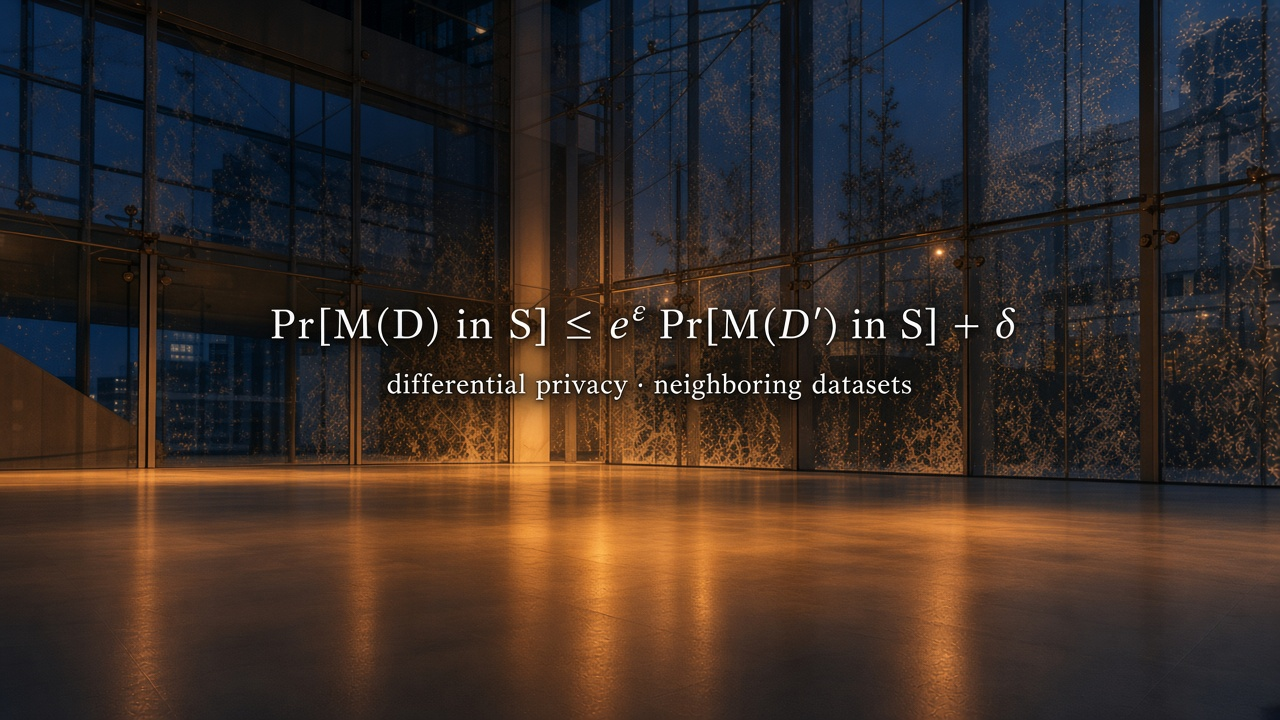
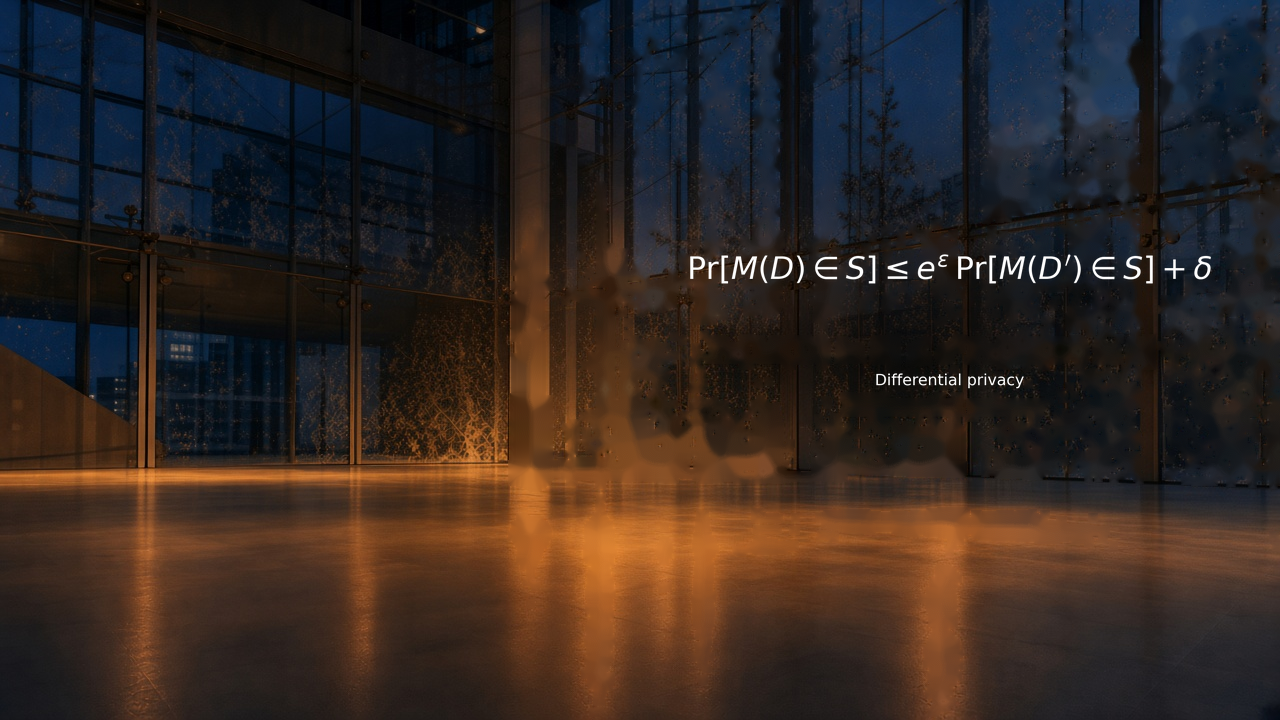
Move slideshow formulas off the title and widen the publications list.

diff --git a/index.html b/index.html
@@ -27,7 +27,7 @@
   <link rel="preconnect" href="https://fonts.googleapis.com">
   <link rel="preconnect" href="https://fonts.gstatic.com" crossorigin>
   <link href="https://fonts.googleapis.com/css2?family=Outfit:wght@400;600;700;800&family=Source+Sans+3:ital,wght@0,400;0,600;0,700;1,400&display=swap" rel="stylesheet">
-  <link rel="stylesheet" href="lab.css?v=20261019-midb">
+  <link rel="stylesheet" href="lab.css?v=20261019-wide2">
 
   <script type="application/ld+json">
   {
@@ -92,31 +92,31 @@
         <div class="atmosphere-carousel lab-hero__carousel" data-interval="3000" role="region" aria-roledescription="carousel" aria-label="Mathematics and statistics">
           <div class="atmosphere-carousel__viewport">
             <figure class="atmosphere-carousel__slide is-active">
-              <img src="img/atmosphere/socal-atmosphere-svd.png?v=20261019-mid" width="1920" height="1080" alt="Singular value decomposition on a university corridor at golden hour.">
+              <img src="img/atmosphere/socal-atmosphere-svd.png?v=20261019-right" width="1920" height="1080" alt="Singular value decomposition on a university corridor at golden hour.">
             </figure>
             <figure class="atmosphere-carousel__slide">
-              <img src="img/atmosphere/socal-atmosphere-chebyshev.png?v=20261019-mid" width="1920" height="1080" alt="Chebyshev inequality on a snow-covered campus path.">
+              <img src="img/atmosphere/socal-atmosphere-chebyshev.png?v=20261019-right" width="1920" height="1080" alt="Chebyshev inequality on a snow-covered campus path.">
             </figure>
             <figure class="atmosphere-carousel__slide">
-              <img src="img/atmosphere/socal-atmosphere-kantorovich.png?v=20261019-mid" width="1280" height="720" alt="Kantorovich-Rubinstein theorem on an autumn campus plaza in low light.">
+              <img src="img/atmosphere/socal-atmosphere-kantorovich.png?v=20261019-right" width="1280" height="720" alt="Kantorovich-Rubinstein theorem on an autumn campus plaza in low light.">
             </figure>
             <figure class="atmosphere-carousel__slide">
-              <img src="img/atmosphere/socal-atmosphere-clt.png?v=20261019-mid" width="1920" height="1080" alt="Central limit theorem over a dusk campus skyline.">
+              <img src="img/atmosphere/socal-atmosphere-clt.png?v=20261019-right" width="1920" height="1080" alt="Central limit theorem over a dusk campus skyline.">
             </figure>
             <figure class="atmosphere-carousel__slide">
-              <img src="img/atmosphere/socal-atmosphere-cauchy-schwarz.png?v=20261019-mid" width="1920" height="1080" alt="Cauchy-Schwarz inequality inside a spiral concrete atrium.">
+              <img src="img/atmosphere/socal-atmosphere-cauchy-schwarz.png?v=20261019-right" width="1920" height="1080" alt="Cauchy-Schwarz inequality inside a spiral concrete atrium.">
             </figure>
             <figure class="atmosphere-carousel__slide">
-              <img src="img/atmosphere/socal-atmosphere-dp.png?v=20261019-mid" width="1280" height="720" alt="Differential privacy on a glass bridge at night, warm interior light against a blue exterior.">
+              <img src="img/atmosphere/socal-atmosphere-dp.png?v=20261019-right" width="1280" height="720" alt="Differential privacy on a glass bridge at night, warm interior light against a blue exterior.">
             </figure>
             <figure class="atmosphere-carousel__slide">
-              <img src="img/atmosphere/socal-atmosphere-spectral.png?v=20261019-mid" width="1920" height="1080" alt="Spectral theorem in a glass atrium.">
+              <img src="img/atmosphere/socal-atmosphere-spectral.png?v=20261019-right" width="1920" height="1080" alt="Spectral theorem in a glass atrium.">
             </figure>
             <figure class="atmosphere-carousel__slide">
-              <img src="img/atmosphere/socal-atmosphere-bayes.png?v=20261019-mid" width="1920" height="1080" alt="Bayes theorem on rain-streaked glass at night.">
+              <img src="img/atmosphere/socal-atmosphere-bayes.png?v=20261019-right" width="1920" height="1080" alt="Bayes theorem on rain-streaked glass at night.">
             </figure>
             <figure class="atmosphere-carousel__slide">
-              <img src="img/atmosphere/socal-atmosphere-sklar.png?v=20261019-mid" width="1280" height="720" alt="Sklar's theorem over a spring reflecting pool in a brick courtyard.">
+              <img src="img/atmosphere/socal-atmosphere-sklar.png?v=20261019-right" width="1280" height="720" alt="Sklar's theorem over a spring reflecting pool in a brick courtyard.">
             </figure>
           </div>
         </div>
@@ -159,7 +159,7 @@
         </div>
         <div class="news-grid">
           <a class="news-card" href="publications.html">
-            <img src="img/logos/NeurIPS_logo.png?v=20261019-mid" width="1000" height="448" alt="NeurIPS">
+            <img src="img/logos/NeurIPS_logo.png?v=20261019-right" width="1000" height="448" alt="NeurIPS">
             <div class="news-card__body">
               <p class="news-card__venue">NeurIPS 2026 · Poster</p>
               <h3>Taming the Tails</h3>
@@ -167,7 +167,7 @@
             </div>
           </a>
           <a class="news-card" href="publications.html">
-            <img src="img/logos/uailogo_square.png?v=20261019-mid" width="200" height="200" alt="UAI">
+            <img src="img/logos/uailogo_square.png?v=20261019-right" width="200" height="200" alt="UAI">
             <div class="news-card__body">
               <p class="news-card__venue">UAI 2026 · Poster</p>
               <h3>Conditional diffusion for tabular regression</h3>

diff --git a/publications.html b/publications.html
@@ -24,7 +24,7 @@
   <link rel="preconnect" href="https://fonts.googleapis.com">
   <link rel="preconnect" href="https://fonts.gstatic.com" crossorigin>
   <link href="https://fonts.googleapis.com/css2?family=Outfit:wght@400;600;700;800&family=Source+Sans+3:ital,wght@0,400;0,600;0,700;1,400&display=swap" rel="stylesheet">
-  <link rel="stylesheet" href="lab.css?v=20261019-midb">
+  <link rel="stylesheet" href="lab.css?v=20261019-wide">
 </head>
 <body>
   <a class="skip-link" href="#main">Skip to content</a>
@@ -53,9 +53,8 @@
   </header>
   <main id="main">
     <section class="section section--pubs">
-      <div class="wrap" style="max-width:760px">
+      <div class="wrap" style="max-width:1040px">
         <div class="section__head">
-          <p class="section__eyebrow">Scholarship</p>
           <h1 class="section__title">Publications</h1>
           <p class="section__lead">Selected peer-reviewed work. <strong class="author-me">N. Kang</strong> marks Nathaniel Kang. Full bibliography on Google Scholar.</p>
         </div>

diff --git a/members.html b/members.html
@@ -27,7 +27,7 @@
   <link rel="preconnect" href="https://fonts.googleapis.com">
   <link rel="preconnect" href="https://fonts.gstatic.com" crossorigin>
   <link href="https://fonts.googleapis.com/css2?family=Outfit:wght@400;600;700;800&family=Source+Sans+3:ital,wght@0,400;0,600;0,700;1,400&display=swap" rel="stylesheet">
-  <link rel="stylesheet" href="lab.css?v=20261019-midb">
+  <link rel="stylesheet" href="lab.css?v=20261019-wide">
 </head>
 <body>
   <a class="skip-link" href="#main">Skip to content</a>

diff --git a/prospective.html b/prospective.html
@@ -27,7 +27,7 @@
   <link rel="preconnect" href="https://fonts.googleapis.com">
   <link rel="preconnect" href="https://fonts.gstatic.com" crossorigin>
   <link href="https://fonts.googleapis.com/css2?family=Outfit:wght@400;600;700;800&family=Source+Sans+3:ital,wght@0,400;0,600;0,700;1,400&display=swap" rel="stylesheet">
-  <link rel="stylesheet" href="lab.css?v=20261019-midb">
+  <link rel="stylesheet" href="lab.css?v=20261019-wide">
 </head>
 <body>
   <a class="skip-link" href="#main">Skip to content</a>

diff --git a/research.html b/research.html
@@ -28,7 +28,7 @@
   <link rel="preconnect" href="https://fonts.googleapis.com">
   <link rel="preconnect" href="https://fonts.gstatic.com" crossorigin>
   <link href="https://fonts.googleapis.com/css2?family=Outfit:wght@400;600;700;800&family=Source+Sans+3:ital,wght@0,400;0,600;0,700;1,400&display=swap" rel="stylesheet">
-  <link rel="stylesheet" href="lab.css?v=20261019-midb">
+  <link rel="stylesheet" href="lab.css?v=20261019-wide">
 </head>
 <body>
   <a class="skip-link" href="#main">Skip to content</a>

diff --git a/lab.css b/lab.css
@@ -1664,7 +1664,7 @@ body.theme-dark {
   width: 100%;
   height: 100%;
   object-fit: cover;
-  object-position: center 42%;
+  object-position: center center;
 }
 .atmosphere-carousel__dots {
   display: none;
